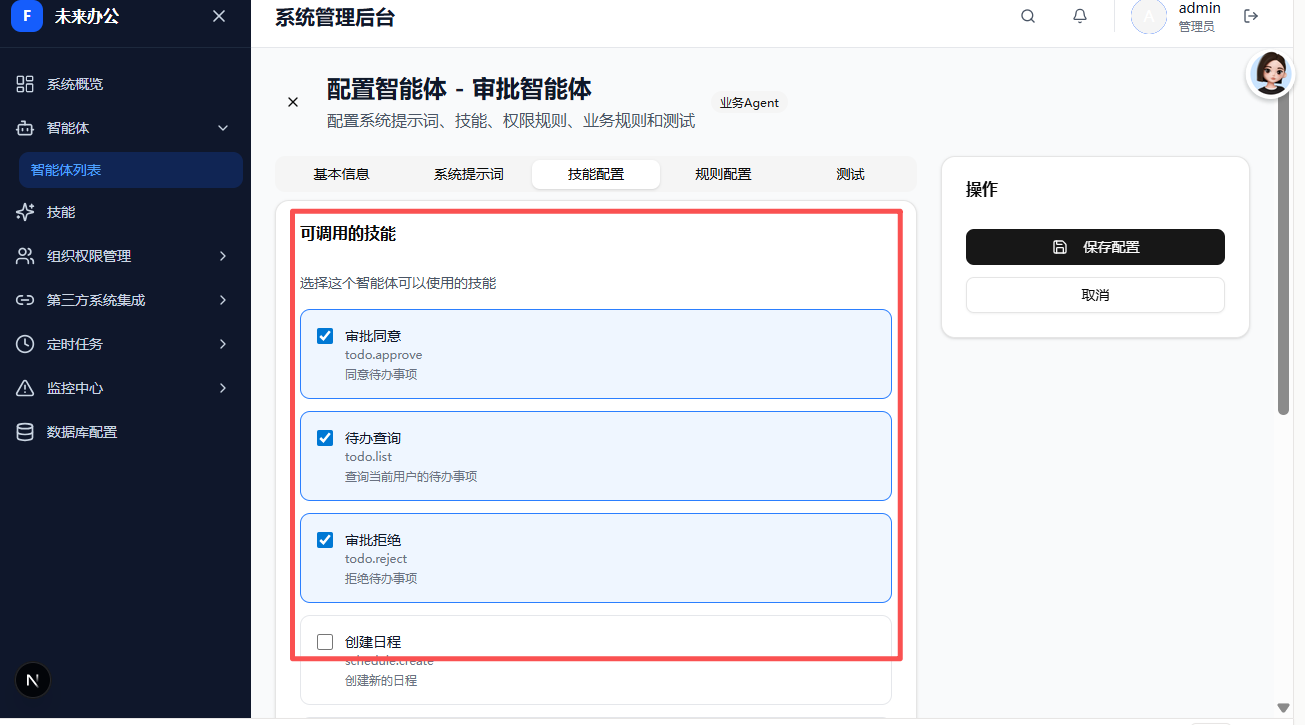
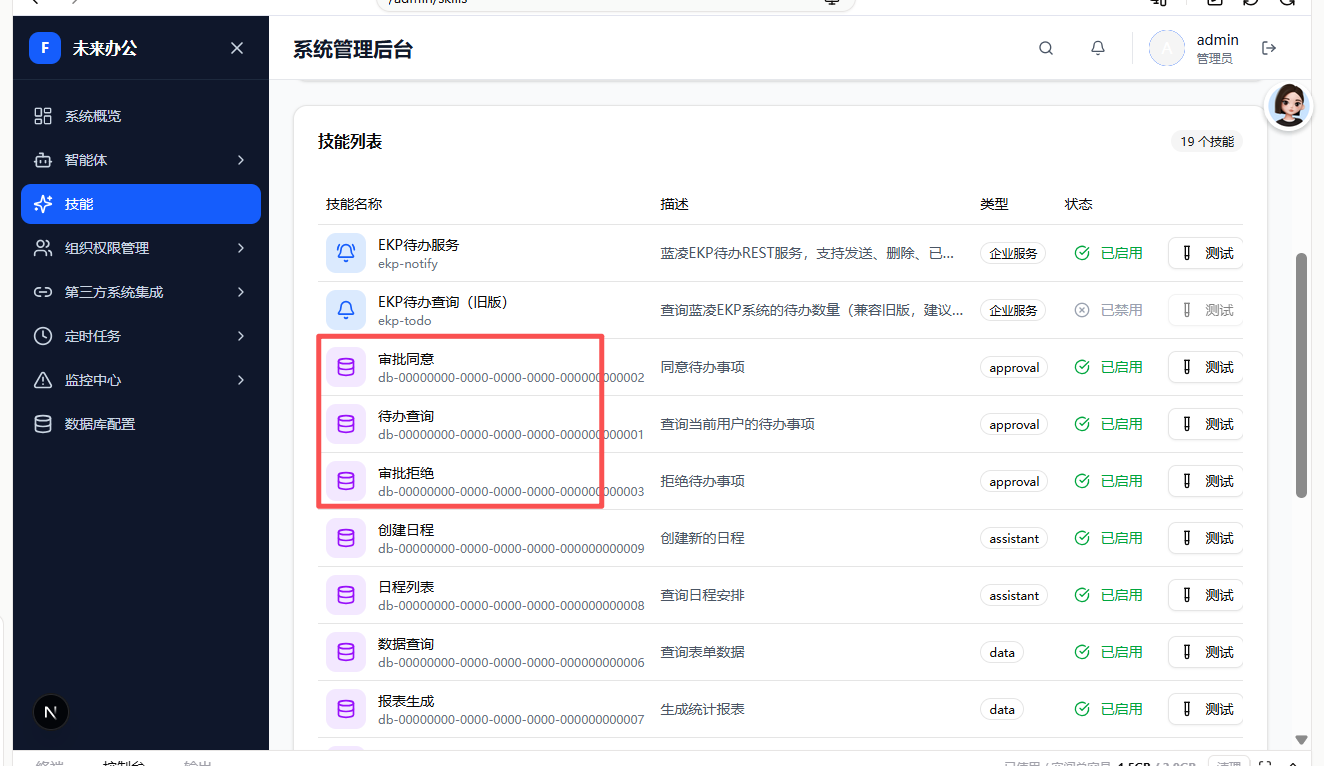
feat: 优化技能结构，只保留EKP待办服务技能

diff --git a/src/app/api/admin/skills/init-ekp/route.ts b/src/app/api/admin/skills/init-ekp/route.ts
@@ -1,9 +1,11 @@
 /**
  * 初始化EKP待办服务技能
+ * 只保留一个技能：ekp_notify（EKP待办服务）
  */
 
 import { NextRequest, NextResponse } from 'next/server';
 import { dbManager } from '@/lib/database/manager';
+import { randomUUID } from 'crypto';
 
 /**
  * POST /api/admin/skills/init-ekp
@@ -11,197 +13,90 @@ import { dbManager } from '@/lib/database/manager';
  */
 export async function POST(request: NextRequest) {
   try {
-    // EKP待办服务相关技能
-    const ekpSkills = [
-      // 1. EKP待办服务（综合技能）
-      {
-        id: '10000000-0000-0000-0000-000000000001',
-        code: 'ekp.notify',
-        name: 'EKP待办服务',
-        description: '蓝凌EKP待办REST服务，支持发送、删除、已办、查询、更新待办等7个接口操作',
-        category: 'ekp',
-        apiConfig: {
-          baseUrl: '',
-          path: '/api/sys-notify/sysNotifyTodoRestService',
-          method: 'POST',
-          actions: ['getTodoCount', 'getTodo', 'sendTodo', 'deleteTodo', 'setTodoDone', 'updateTodo', 'getTodoTargets']
-        },
-        enabled: true
+    // EKP待办服务技能（单一技能，包含7个操作）
+    const ekpSkill = {
+      id: '10000000-0000-0000-0000-000000000001',
+      code: 'ekp_notify',
+      name: 'EKP待办服务',
+      description: '蓝凌EKP待办REST服务，支持发送、删除、已办、查询、更新待办等7个接口操作',
+      category: 'ekp',
+      apiConfig: {
+        baseUrl: '',
+        path: '/api/sys-notify/sysNotifyTodoRestService',
+        method: 'POST',
+        // 7个操作：getTodoCount, getTodo, sendTodo, deleteTodo, setTodoDone, updateTodo, getTodoTargets
+        actions: ['getTodoCount', 'getTodo', 'sendTodo', 'deleteTodo', 'setTodoDone', 'updateTodo', 'getTodoTargets']
       },
-      // 2. 获取待办数量
-      {
-        id: '10000000-0000-0000-0000-000000000002',
-        code: 'ekp.todo.count',
-        name: '获取待办数量',
-        description: '获取指定用户的待办数量，支持按类型筛选',
-        category: 'ekp',
-        apiConfig: {
-          baseUrl: '',
-          path: '/api/sys-notify/sysNotifyTodoRestService/getTodoCount',
-          method: 'POST',
-          params: ['target', 'types']
-        },
-        enabled: true
-      },
-      // 3. 获取待办列表
-      {
-        id: '10000000-0000-0000-0000-000000000003',
-        code: 'ekp.todo.list',
-        name: '获取待办列表',
-        description: '获取指定用户的待办事项列表，支持分页和多种筛选条件',
-        category: 'ekp',
-        apiConfig: {
-          baseUrl: '',
-          path: '/api/sys-notify/sysNotifyTodoRestService/getTodo',
-          method: 'POST',
-          params: ['targets', 'type', 'otherCond', 'rowSize', 'pageNo']
-        },
-        enabled: true
-      },
-      // 4. 发送待办
-      {
-        id: '10000000-0000-0000-0000-000000000004',
-        code: 'ekp.todo.send',
-        name: '发送待办',
-        description: '向指定人员发送待办通知',
-        category: 'ekp',
-        apiConfig: {
-          baseUrl: '',
-          path: '/api/sys-notify/sysNotifyTodoRestService/sendTodo',
-          method: 'POST',
-          params: ['modelName', 'modelId', 'subject', 'link', 'mobileLink', 'padLink', 'type', 'targets', 'createTime']
-        },
-        enabled: true
-      },
-      // 5. 删除待办
-      {
-        id: '10000000-0000-0000-0000-000000000005',
-        code: 'ekp.todo.delete',
-        name: '删除待办',
-        description: '删除指定的待办事项',
-        category: 'ekp',
-        apiConfig: {
-          baseUrl: '',
-          path: '/api/sys-notify/sysNotifyTodoRestService/deleteTodo',
-          method: 'POST',
-          params: ['modelName', 'modelId', 'optType', 'type']
-        },
-        enabled: true
-      },
-      // 6. 设为已办
-      {
-        id: '10000000-0000-0000-0000-000000000006',
-        code: 'ekp.todo.done',
-        name: '设为已办',
-        description: '将待办标记为已处理状态',
-        category: 'ekp',
-        apiConfig: {
-          baseUrl: '',
-          path: '/api/sys-notify/sysNotifyTodoRestService/setTodoDone',
-          method: 'POST',
-          params: ['modelName', 'modelId', 'optType', 'type']
-        },
-        enabled: true
-      },
-      // 7. 更新待办
-      {
-        id: '10000000-0000-0000-0000-000000000007',
-        code: 'ekp.todo.update',
-        name: '更新待办',
-        description: '更新已存在的待办信息',
-        category: 'ekp',
-        apiConfig: {
-          baseUrl: '',
-          path: '/api/sys-notify/sysNotifyTodoRestService/updateTodo',
-          method: 'POST',
-          params: ['modelName', 'modelId', 'subject', 'link', 'mobileLink', 'padLink', 'type', 'level']
-        },
-        enabled: true
-      },
-      // 8. 获取待办接收人
-      {
-        id: '10000000-0000-0000-0000-000000000008',
-        code: 'ekp.todo.targets',
-        name: '获取待办接收人',
-        description: '获取指定待办的所有接收人列表',
-        category: 'ekp',
-        apiConfig: {
-          baseUrl: '',
-          path: '/api/sys-notify/sysNotifyTodoRestService/getTodoTargets',
-          method: 'POST',
-          params: ['fdId']
-        },
-        enabled: true
-      }
+      enabled: true
+    };
+
+    // 1. 清理所有旧技能（旧版简化技能和EKP子技能）
+    const oldSkillCodes = [
+      // 旧版简化技能
+      'todo.approve', 'todo.list', 'todo.reject',
+      'schedule.create', 'schedule.list',
+      'meeting.create', 'meeting.list',
+      'data.query', 'report.generate',
+      // EKP子技能（注意旧code使用点号分隔）
+      'ekp.todo.count', 'ekp.todo.list', 'ekp.todo.send',
+      'ekp.todo.delete', 'ekp.todo.done', 'ekp.todo.update', 'ekp.todo.targets',
+      // 旧版 ekp.notify
+      'ekp.notify'
     ];
 
-    let insertedCount = 0;
-    let updatedCount = 0;
-
-    for (const skill of ekpSkills) {
-      // 检查是否已存在
-      const existingResult = await dbManager.query(
-        'SELECT id FROM skills WHERE code = ?',
-        [skill.code]
-      );
-
-      if (existingResult.rows.length > 0) {
-        // 更新
-        await dbManager.query(`
-          UPDATE skills 
-          SET name = ?, description = ?, category = ?, api_config = ?, enabled = ?, updated_at = CURRENT_TIMESTAMP
-          WHERE code = ?
-        `, [skill.name, skill.description, skill.category, JSON.stringify(skill.apiConfig), skill.enabled, skill.code]);
-        updatedCount++;
-      } else {
-        // 插入
-        await dbManager.query(`
-          INSERT INTO skills (id, code, name, description, category, api_config, enabled)
-          VALUES (?, ?, ?, ?, ?, ?, ?)
-        `, [skill.id, skill.code, skill.name, skill.description, skill.category, JSON.stringify(skill.apiConfig), skill.enabled]);
-        insertedCount++;
+    let deletedCount = 0;
+    for (const code of oldSkillCodes) {
+      const result = await dbManager.query('DELETE FROM skills WHERE code = ?', [code]);
+      if (result.affectedRows > 0) {
+        deletedCount++;
       }
     }
 
-    // 为ApprovalAgent添加EKP待办服务相关技能
-    const agentSkills = [
-      { id: '10000000-0000-0000-0000-000000000001', agentType: 'approval', skillId: 'ekp.todo.count' },
-      { id: '10000000-0000-0000-0000-000000000002', agentType: 'approval', skillId: 'ekp.todo.list' },
-      { id: '10000000-0000-0000-0000-000000000003', agentType: 'approval', skillId: 'ekp.todo.done' },
-      { id: '10000000-0000-0000-0000-000000000004', agentType: 'approval', skillId: 'ekp.todo.delete' },
-      { id: '10000000-0000-0000-0000-000000000005', agentType: 'approval', skillId: 'ekp.notify' }
-    ];
+    // 2. 插入或更新EKP待办服务技能（使用REPLACE INTO避免重复主键问题）
+    await dbManager.query(`
+      REPLACE INTO skills (id, code, name, description, category, api_config, enabled)
+      VALUES (?, ?, ?, ?, ?, ?, ?)
+    `, [ekpSkill.id, ekpSkill.code, ekpSkill.name, ekpSkill.description, ekpSkill.category, JSON.stringify(ekpSkill.apiConfig), ekpSkill.enabled]);
 
-    let agentSkillCount = 0;
-    for (const agentSkill of agentSkills) {
-      // 检查是否已存在
-      const existingAgentSkill = await dbManager.query(
-        'SELECT id FROM agents_skills WHERE agent_type = ? AND skill_id = ?',
-        [agentSkill.agentType, agentSkill.skillId]
-      );
+    // 3. 确保 agents_skills 表存在
+    await dbManager.query(`
+      CREATE TABLE IF NOT EXISTS agents_skills (
+        id VARCHAR(36) PRIMARY KEY COMMENT '关联ID',
+        agent_type VARCHAR(50) NOT NULL COMMENT 'Agent类型',
+        skill_id VARCHAR(100) NOT NULL COMMENT '技能ID（关联skills.code）',
+        created_at TIMESTAMP DEFAULT CURRENT_TIMESTAMP COMMENT '创建时间',
+        UNIQUE KEY uk_agent_skill (agent_type, skill_id)
+      )
+    `);
 
-      if (existingAgentSkill.rows.length === 0) {
-        await dbManager.query(`
-          INSERT INTO agents_skills (id, agent_type, skill_id)
-          VALUES (?, ?, ?)
-        `, [agentSkill.id, agentSkill.agentType, agentSkill.skillId]);
-        agentSkillCount++;
-      }
+    // 4. 更新审批智能体技能关联（只关联ekp_notify）
+    // 先删除审批智能体的所有旧技能关联
+    await dbManager.query('DELETE FROM agents_skills WHERE agent_type = ?', ['approval-agent']);
+
+    // 添加新的技能关联（使用随机UUID作为ID）
+    await dbManager.query(`
+      INSERT INTO agents_skills (id, agent_type, skill_id)
+      VALUES (?, ?, ?)
+    `, [randomUUID(), 'approval-agent', 'ekp_notify']);
+
+    // 清理其他智能体的旧技能关联
+    for (const agentType of ['assistant-agent', 'data-agent', 'meeting-agent']) {
+      await dbManager.query('DELETE FROM agents_skills WHERE agent_type = ?', [agentType]);
     }
 
     return NextResponse.json({
       success: true,
       message: 'EKP待办服务技能初始化成功',
       data: {
-        skillsInserted: insertedCount,
-        skillsUpdated: updatedCount,
-        agentSkillsAdded: agentSkillCount
+        oldSkillsDeleted: deletedCount,
+        currentSkill: 'ekp_notify',
+        agentSkillsUpdated: '审批智能体已关联 ekp_notify'
       }
     });
   } catch (error) {
     console.error('[API:Admin:Skills:InitEKP] Error:', error);
     return NextResponse.json(
-      { success: false, error: `初始化失败: ${error instanceof Error ? error.message : '未知错误'}` },
+      { success: false, error: `初始化EKP待办服务技能失败: ${error instanceof Error ? error.message : 'Unknown error'}` },
       { status: 500 }
     );
   }
